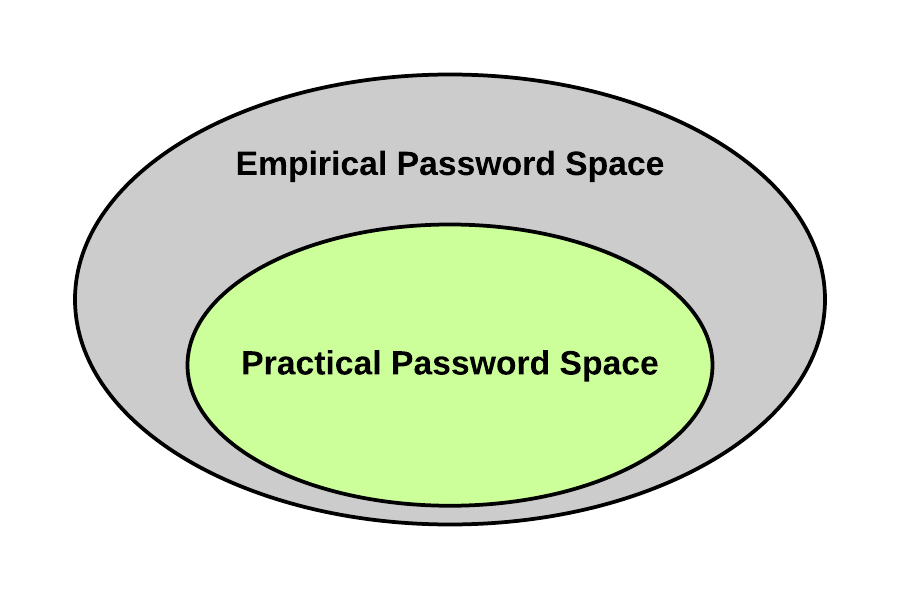
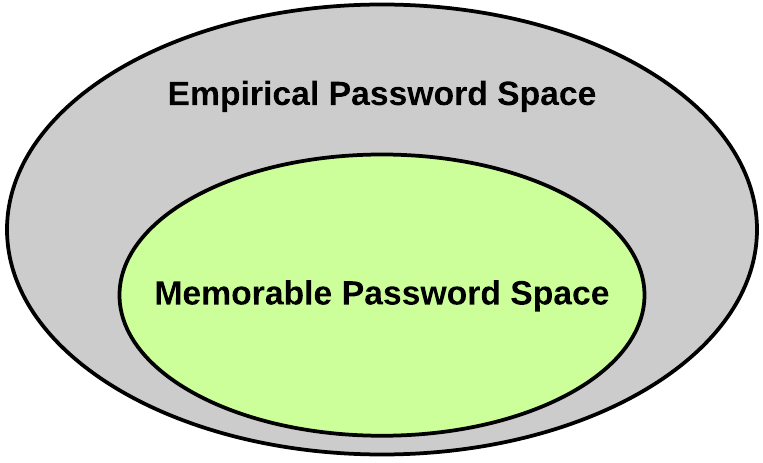
Changes

diff --git a/chapter3/graphicalPasswords.tex b/chapter3/graphicalPasswords.tex
@@ -1,8 +1,8 @@
 \section{Graphical Passwords}
 \label{chapter:literatureReview}
+  
 
-% Må få frem hvilke grafiske passord som er laget, samt se på hvilke problemer de løser/ikke løser
-% Kommentar fra Lillian: Hva søker man etter når man lager nye passordmekanismer? (entropi, vanskelig å gjette, lett å huske)
+\section*{Graphical Passwords} \label{sec:literaturegraphicalPasswords}
 
   Like text-based passwords schemes, graphical password schemes are also a knowledge-based authentication scheme, e.g. ``something you know'' that are described in the background theory. Since it all started around 1996, there have been many suggestions for graphical password schemes. When a new password scheme is proposed, there are several aspects of password that needs to be considered. A password scheme needs to be secure in terms of entropy, and it needs to be hard to guess and it also needs to be comfortable to use. This section will give a brief introduction to the history of research published on graphical passwords. This is important to know because each scheme is trying to improve different aspects of graphical password, giving us a detailed understanding of today's situation.
 
@@ -32,7 +32,7 @@
 
   ``Passfaces'' is a graphical password scheme developed by Real User Corporation that was founded in 2000 \cite{passface}. The authentication procedure allows the users to first select four images that are a visualization on human faces, and the user get authenticated by identifying their four faces. The scheme exploits the advantage that people are good at recognizing people, so when users choose the human faces, and they can recognize the characteristics of the faces.
 
-  Figure~\ref{fig:DejaVu} is showing the Deja Vu password scheme using the hash visualization technique for generating images. Figure~\ref{fig:PassFaces} is showing the PassFaces scheme used on a smartphone. This is one of the few commercial graphical password schemes that are in use.
+  Figure~\ref{fig:DejaVu} is showing the Deja Vu password scheme using the hash visualization technique for generating images. Figure~\ref{fig:Passfaces} is showing the PassFaces scheme used on a smartphone. This is one of the few commercial graphical password schemes that are in use.
 
   \begin{figure}[H]
     \centering
@@ -51,7 +51,7 @@
 
   In 2004, Davis et al. did a comparison of a light version of the ``PassFace'' and a new graphical password scheme called ``Story'' \cite{Davis}. The Story scheme is making the users choosing images making a story. The background for the scheme was to support their users of remembering their passwords by making a memorable story of images. The story that was made were needed to be recalled in the correct order. To support the memorability, users were instructed to construct a story mentally to connect the everyday images in the set.
 
-  In 2005 Wiedenbeck et al. proposed a graphical password scheme called ``PassPoints'' \cite{PassPoints} that is an  extension of the Blonder's \cite{Blonder} idea by eliminating the boundaries and allowing arbitrary images to be used. They evaluated their password scheme by testing the scheme for human users. The results showed that PassPoint were a promising scheme with respect to memorability because of the low error rate and low clicking rate.
+  In 2005 Wiedenbeck et al. proposed a graphical password scheme called ``PassPoints'' \cite{Wiedenbeck2} that is an  extension of the Blonder's \cite{Blonder} idea by eliminating the boundaries and allowing arbitrary images to be used. They evaluated their password scheme by testing the scheme for human users. The results showed that PassPoint were a promising scheme with respect to memorability because of the low error rate and low clicking rate.
   The aim of this study was to get an understanding of how different images affected user performance in authentication with a graphical password scheme. The preliminary result showed suggested that images may support memorability in graphical password schemes.
 
   Figure~\ref{fig:story} is the Story scheme with images of faces and objects. Figure~\ref{fig:passpoints} is an image of the PassPoints scheme showing five selected points in the picture.
@@ -63,7 +63,7 @@
       \includegraphics[scale=0.4]{pics/story.png}
       \label{fig:story}
     }
-    \subfigure[PassPoints \cite{PassPoints}]{
+    \subfigure[PassPoints \cite{Wiedenbeck2}]{
       \includegraphics[scale=0.6]{pics/passpoint.png}
       \label{fig:passpoints}
     }  
@@ -100,26 +100,29 @@
 
   Graphical passwords are still not widely adopted, but there are still new graphical password scheme being proposed. Recently published graphical password schemes are GeoPass \cite{GeoPass} and Picassopass \cite{PicassoPass}. Geopass uses a digital map for the authentication phase, where the user chooses a particular location as their password. Picassopass is a graphical password scheme that are presenting a password using a dynamic layered combination of graphical elements. The users can make a story that assists the user in the recognition of the graphical elements.
 
-  Figure~\ref{} and Figure~\ref{} is the two new proposals for graphical authentication schemes, the Geopass and the Picassopass, respectively. 
+  Figure~\ref{fig:geopass} and Figure~\ref{fig:PicassoPass} is the two new proposals for graphical authentication schemes, the Geopass and the Picassopass, respectively. 
 
   \begin{figure}[H]
     \centering
     \ContinuedFloat
     \subfigure[GeoPass \cite{GeoPass}]{
       \includegraphics[scale=0.60]{pics/geopass.png}
+      \label{fig:geopass}
     }
     \subfigure[PicassoPass \cite{PicassoPass}]{
       \includegraphics[scale=0.80]{pics/picassopass.png}
+      \label{fig:PicassoPass}
     }
     \caption{Graphical password schemes}
   \end{figure}
 
- \section{Evaluation of Graphical Password Schemes}
+  \clearpage
+ \section{Evaluation of Graphical Password Schemes} \label{sec:evaluation}
 
-  \begin{wrapfigure}{l}{0.35\textwidth}
+  \begin{wrapfigure}{l}{0.4\textwidth}
     \vspace{-20pt}
     \begin{center}
-      \includegraphics[scale=0.7]{pics/UsabilityVsSecurity.png}
+      \includegraphics[scale=0.75]{pics/UsabilityVsSecurity.png}
     \end{center}
     \vspace{-20pt}
     \caption{Usability vs. Security}
@@ -129,7 +132,7 @@
 
   Authentication with text-based passwords are a common approach, but it is well known that users often choose weaker passwords because of the limitations of recalling text-based passwords. Graphical passwords came as an alternative solution for overcoming the limitations of text-based passwords, and was inspired by researchers that showed that the graphical memory of humans is particularly well-suited to remember graphical information \cite{DeAngeli}. The problem with many graphical password schemes is that they often promise improved password memorability and thus usability, and at the same time improve the security \cite{Biddle}. The trade-off between usability and security is illustrated in Figure~\ref{fig:usabilitysecurity}. Because of the observed trade-off between usability and security, it is important to understand both the usability and security aspects when looking at different password schemes.
 
-\subsection{Usability and Memorability}
+\subsection{Usability and Memorability} \label{sec:usability}
 
   \todo{Finne forskning som evaluerer grafiske password på usability and memorability}
 
@@ -148,7 +151,7 @@
   \todo{Legge til forskning på usability av pass-go}
 
     
-\subsection{Security}
+\subsection{Security} \label{sec:security}
 
   In knowledge-based authentication, e.g. ``something you know'' we classify attacks into two general categories: guessing and capturing attacks. In a guessing attack the attackers are able to search through the entire password space, or either predict the users passwords patterns in order to avoid searching through the whole passwords space (often referred to as a dictionary attack). This is often associated with the entropy of the password, because the lower the entropy it will be easier to make a successful attack. When talking about capturing attacks, the attackers can directly obtain the passwords by observing the authentication process. One of the known capturing attacks on graphical passwords is shoulder surfing because of its graphical visualization.
 
@@ -167,7 +170,7 @@
   A clever attacker would narrow down the password space and prioritize guesses to pictures that people are likely to choose. The images that are selected are liable to be the images that users are likely to recall. In order to understand how an attacker might take advantage of human password choices, psychological studies on humans visual memory are crucial to comprehend.. 
 
 \clearpage
-\section{Psychology and Human Factors}
+\section{Psychology and Human Factors} \label{sec:humanfactors}
 
   \begin{wrapfigure}{r}{0.35\textwidth}
     \vspace{-20pt}
@@ -177,9 +180,10 @@
     \vspace{-20pt}
     \caption{Dual-Coding Theory}
     \vspace{-10pt}
+    \label{fig:dualcoding}
   \end{wrapfigure}
 
-  In many years, the field of psychology been an important in order to understand how humans interpret and remember different information. Psychology studies have recognized that the human brain have a superior memory for recognizing and recalling visual information rather than recognizing and recalling verbal or textual information \cite{DeAngeli}. One known theory is the ``dual-coding theory'' \cite{Biddle}, suggesting that verbal and non-verbal memory are processed and represented differently in human's mind. Text are verbal information that is represented symbolically, in contrast to non-verbal information like images that are mentally represented in a way that perceived concepts are assigned to a perceived meaning of what is directly observed. Both verbal and non-verbal information can be used when recalling information. For example, say a person have received stimulus of the concept ``cat'', both the image of a cat as well as the word ``cat''. When a person is asked to recall the concept ``cat'', a person can retrieve the image or the word individually, or both simultaneously. If the word ``cat'' is remembered, the picture of the cat is not lost and can still be retrieved at a later point in time. The ability to code a stimulus in two different ways can increase humans ability to remember, in contrast to only code the stimulus in one way. In the background theory there are described three various categories of graphical passwords according to the memory task involved in remembering and entering the password, e.g. recall, recognition and cued recall.
+  In many years, the field of psychology been an important in order to understand how humans interpret and remember different information. Psychology studies have recognized that the human brain have a superior memory for recognizing and recalling visual information rather than recognizing and recalling verbal or textual information \cite{DeAngeli}. One known theory is the ``dual-coding theory'' \cite{Biddle}, suggesting that verbal and non-verbal memory are processed and represented differently in human's mind. Text are verbal information that is represented symbolically, in contrast to non-verbal information like images that are mentally represented in a way that perceived concepts are assigned to a perceived meaning of what is directly observed. Both verbal and non-verbal information can be used when recalling information. For example, say a person have received stimulus of the concept ``cat'', both the image of a cat as well as the word ``cat'' (Figure~\ref{fig:dualcoding}). When a person is asked to recall the concept ``cat'', a person can retrieve the image or the word individually, or both simultaneously. If the word ``cat'' is remembered, the picture of the cat is not lost and can still be retrieved at a later point in time. The ability to code a stimulus in two different ways can increase humans ability to remember, in contrast to only code the stimulus in one way. In the background theory there are described three various categories of graphical passwords according to the memory task involved in remembering and entering the password, e.g. recall, recognition and cued recall.
 
   When it comes to humans and visual interpretation, studies support the idea that people recall symmetric images better than asymmetric images \cite{Attneave, French}. A particular interesting observation is that mirror symmetry carries a special status I the human memory \cite{Wagemans1}. An understanding of psychological studies on humans visual memory can help to build successful attacks against graphical passwords. If an attacker can successfully use the symmetric properties of graphical password schemes, then the security may be significantly less than if all passwords were equivalent probable.
 
@@ -195,7 +199,7 @@
   \todo{Legge til studier fra psykologi som kan forklare hvordan mennesker ser på sammensetningen av et bilde (cognitive studies)}
   
 
-  \section{Graphical Passwords and Mobile Devices}
+  \section{Graphical Passwords and Mobile Devices} \label{sec:mobiledevice}
   %Intro
   Users are not only dependent on remembering passwords across multiple web pages and systems, but do also need to remember passwords for our small mobile devices. The mobile phone have emerged as an excellent platform for graphical passwords because it is easier to input on touchscreen as a contrast to text-based passwords. Graphical passwords on mobile devices seem like a natural fit, as they often require direct manipulation of visual elements. In today's society, we are addicted to our mobile devices in our everyday life. Mobile devices are not just a communication tool for calling and texting, but also a valuable tool for daily tasks like doing our work, reading mail, pay our bills and keeping up with our social life. This trend makes our mobile devices vulnerable in terms of security. To avoid unwanted access, smartphones offer different locking mechanisms. The history of locking mechanisms was often a solution solely to prevent accidental use, while current mobile phones require protection in order to secure the potentially vast amount of private data that we keep on our smartphones. The situation of our rapid use of mobile phones, as well as it well-suited platform for graphical password, makes authentication on mobile devices an interesting field of study.
 

diff --git a/chapter1/introduction.tex b/chapter1/introduction.tex
@@ -1,14 +1,14 @@
 \chapter{Introduction}
 
-  In todays society, people tends to spend a lot of time on their mobile devices. Mobile devices are not just tool for communication, but also an important tool for every day tasks like doing our work, reading mail, pay our bills, and keeping up with our social life. Our whole life is contained in one device. When such a small device is so central in our every day life, it makes it vulnerable.
+  In today's society, people tend to spend much time on their mobile devices. Mobile devices are not just tool for communication, but also an essential tool for everyday tasks like doing our work, reading mail, pay our bills, and keeping up with our social life. Our whole life is contained in one device. When such a small device is so central to our daily lives, it makes it vulnerable.
 
-  Passwords are human-chosen secrets that are connected to you as a person. When the password are created you might create a password that is a association to something you know or recognize; passwords are more than just words and numbers. Because of the shortcomings with text-based passwords \cite{UnixPasswords}, there is an increased interest in graphical passwords. The interest in graphical passwords started by the assumption that pictures are easier to remember and more secure than words and numbers \cite{DeAngeli}. Google's Android platform released the functionality for the Android Unlock Pattern in 2008. Since its release, there have been a lot of discussion of its security, but few researchers have conducted scientific research on the Android Unlock Pattern. The problem is not just the theoretical password space, but the password space in practice. 
+  Passwords are human-chosen secrets that are connected to you as a person. When the password are created you might create a password that is an association to something you know or recognize; passwords are more than just words and numbers. Because of the shortcomings with text-based passwords \cite{UnixPasswords}, there is an increased interest in graphical passwords. The interest in graphical passwords started by the assumption that pictures are easier to remember and more secure than words and numbers \cite{DeAngeli}. Google's Android platform released the functionality for the Android Unlock Pattern in 2008. Since its release, there have been much discussion of its security, but few researchers have conducted scientific research on the Android Unlock Pattern. The problem is not just the theoretical password space, but the password space in practice.
 
-  The motivation for this thesis started by observing the shortcomings with graphical passwords. Password reuse is one of the known password habits among users because the human limitation to remembering text-based password. Some users also make simple or meaningful password that are easier to remember, making their passwords vulnerable to attacks. Graphical passwords looks like a promising alternative to text-based passwords, as it supports users to remember and make more complex passwords, offering better usability and higher security. As mobile devices plays an important role in our everyday life, it makes it interesting target device. Security on mobile devices have changed during the past years. The history of locking mechanisms was often a solution solely to prevent accidental use, while current mobile phones require protection in order to secure the potentially vast amount of private data that we keep on our smartphones. The situation of our rapidly use of mobile phones, as well as it well suited platform for graphical password, makes authentication on mobile devices an interesting field of study.
+  The motivation for this thesis started by observing the shortcomings with graphical passwords. Password reuse is one of the known password habits among users because the human limitation to remembering text-based password. Some users also make simple or meaningful password that are easier to remember, making their passwords vulnerable to attacks. Graphical passwords look like a promising alternative to text-based passwords, as it supports users to remember and make more complex passwords, offering better usability and higher security. As mobile devices play a significant role in our everyday life, it makes it interesting target device. Security on mobile devices has changed during the past years. The history of locking mechanisms was often a solution solely to prevent accidental use, while current mobile phones require protection in order to secure the potentially vast amount of private data that we keep on our smartphones. The situation of our rapid use of mobile phones, as well as it well-suited platform for graphical password, makes authentication on mobile devices an interesting field of study.
 
-  In 2013 a research group conducted the first large-scale user study on the Android Unlock Patterns \cite{Uellenbeck}. The outcome of the research was a analysis of 2900 collected Android Unlock Patterns. They found a lot of bias in the pattern making process claiming that the scheme are less secure than its stated theoretical password space. 
+  In 2013, a research group conducted the first large-scale user study on the Android Unlock Patterns \cite{Uellenbeck}. The outcome of the research was an analysis of 2900 collected Android Unlock Patterns. They found bias in the pattern making process claiming that the scheme are less secure than its stated theoretical password space.
 
-  This research aims to take the analysis of peoples choice in Android Unlock Patterns a step further by including the human properties that may impact the users choice in graphical passwords. This thesis is the first phase of my research, and will continued in my master thesis in the following spring. 
+  This research aims to take the analysis of people's choice in Android Unlock Patterns a step further by including the human properties that may impact the user's choice in graphical passwords. This thesis is the first phase of my research and will continue in my master thesis in the following spring.
 
   \section{Research Questions}
     
@@ -22,14 +22,15 @@
 
   \section{Deliverables}
 
-    The deliverables from this thesis is a literature review on graphical passwords to get an overview of published research, and provide a conceptual framework for the rest of the thesis. A literature review is providing the information needed to decide on a main research hypothesis for my master thesis, and the aim is to fill the gap in research on graphical passwords on mobile devices.
+    The deliverables from this thesis are a literature review on graphical passwords to get an overview of published research, and provide a conceptual framework for the rest of the thesis. A literature review is providing the information needed to decide on the main research hypothesis for my master thesis, and the aim is to fill the gap in research on graphical passwords on mobile devices.
 
-    As well as a literature review, there will be delivered a research design that will be used further in my master thesis. The research design is mainly a detailed description of the research strategy and data collection method. Research on passwords is not easy to conduct because of the nature of passwords. Passwords should remain a secret for the user, and as we have learned, we should not share our password due to security concerns. Research on text-based passwords is often based on leaked password on the web. When analyzing graphical passwords on mobile devices, there is no such data source available. 
-    The research design from this research can provide insight into a new way of solving the problem of collecting user chosen passwords from mobile devices. This can provide knowledge for future research on graphical passwords on mobile devices.
+  As well as a literature review, there will be delivered a research design that will be used further in my master thesis. The research design is mainly a detailed description of the research strategy and data collection method. Research on passwords is not easy to conduct because of the nature of passwords. Passwords should remain a secret for the user, and as we have learned, we should not share our password due to security concerns. Research on text-based passwords is often based on leaked password on the web. When analyzing graphical passwords on mobile devices, there is no such data source available.
+  
+  The research design can provide insight into a new way of solving the problem of collecting user chosen passwords from mobile devices. This can provide knowledge for future research on graphical passwords on mobile devices.
 
-  \section{Methods}
+  \section{Methods} \label{sec:method}
 
-    \subsection{Research Process}
+    \subsection{Research Process} \label{sec:methodresearchprocess}
 
     Throughout this thesis, the research process illustrated in figure~\ref{fig:researchProcess1} will be used as a starting point \cite{empiriske}. The research process is framework for researching information systems and computing. The model is not justed as a framework for this research project, but will be used as a model when designing the research that will be conducted in the following spring. The only part that is conducted in this thesis is the literature review for finding the research questions (hypothesis) to be used in my master thesis. The research strategy and data generation is described in section~\ref{chapter:researchDesign}.
 
@@ -44,9 +45,9 @@
 
     \todo{Beskrive alle delene research process i detalj}
 
-    \subsection{Literature Review}
+    \subsection{Literature Review}\label{sec:methodliteraturereview}
 
-    \subsection{Usability Testing}
+    \subsection{Usability Testing} \label{sec:methodusabilitytesting}
 
   \section{Thesis structure}
 

diff --git a/chapter2/backgroundTheory.tex b/chapter2/backgroundTheory.tex
@@ -1,10 +1,10 @@
   \chapter{An Introduction to Authentication Mechanisms}
   
-  {\bf *** Write introduction to chapter ***}
+    This chapter is an introduction to authentication mechanisms. Section~\ref{sec:authentication} is an introduction to the categorizaton of existing authentication mechanismns. Section~\ref{sec:entropy} provides an introduction to key aspects in security and authentication. Section~\ref{sec:shortcomings} is an evaluation of text-based authentication and its shortcomings.
 
   \clearpage
 
-  \section{Authentication}
+  \section{Authentication} \label{sec:authentication}
 
   Authentication is the process of verifying whether a particular individual or a device should be granted access to a system or application running on a device \cite{IPAS}, e.g. verifying that you are the person that you claim to be.
 
@@ -57,7 +57,7 @@
 
       Cued-recall are often referred to locimetric systems \cite{DeAngeli}. With cued-recall authentication typically require the users to remember and target a specific location within and image. This is a version of a recall-based authentication, but helps the user with the recall by showing an image and not just an grid or canvas. It is also different from the recognition-based approach because the user need to identify specific locations in an image as a whole. 
 
-  \section{Key Security Aspects in Authentication}
+  \section{Key Security Aspects in Authentication} \label{sec:entropy}
   In order to be able to evaluate the security of different password schemes, this section will give a brief introduction to key security aspects with knowledge-based authentication, hereafter called passwords. In terms of security, the primary goal of authentication is to provide security for its intended environment in order to avoid security attacks. A password, regardless of format, is a secret a user needs to use in order to to grant access to a system or device. A password should have certain features in order to be secure:
 
     \begin{itemize}
@@ -79,22 +79,20 @@
 
   All of the key security aspects are important to understand when you are studying password mechanisms. The key aspects will be used throughout this thesis in order to be able to evaluate and read research focusing passwords. 
 
-  \section{Shortcomings With Text-Based Authentication} 
+  \section{Shortcomings With Text-Based Authentication} \label{sec:shortcomings}
+
   User authentication is a central component of security systems. In order to get access to systems you need to pass a authentication process. Despite the large number of options for authentication, text-based passwords remain the most common authentication scheme. The reason why they are widely adopted is because they are easy and inexpensive to implement, and users are familiar with the scheme. It is also avoiding the privacy issues raised by biometric authentication and avoid the need for bringing a physical security device that are used in token-based authentication schemes. However, text-based authentication suffer from both security and usability disadvantages. Today, users needs to remember an increasingly number of password, making users to adopt bad password habits. 
 
   The term ``habit'' is often a bad thing when talking about security. A habit is often hard to change and are often a predictable pattern. Password reuse is one of the known password habits among users because the human limitation to remembering text-based password. Some users also make simple or meaningful password that are easier to remember, making their passwords vulnerable to attacks. It is a well known problem that users tends to have an increasingly number of accounts that requires the users to remember yet another number of password across multiple systems and devices. The problem is not just to remember all the password needed, but also remembering which passwords that belongs to which account or device. Because of the human capacity of remembering password are causing users to choose weak passwords, as well as reuse the passwords across multiple web pages. In order to understand the shortcomings with text-based passwords, this section will include relevant research on users choices on text-based passwords.  
 
-    \begin{wrapfigure}{l}{0.4\textwidth}
-      \vspace{-20pt}
-      \begin{center}
-        \includegraphics[scale=0.16]{pics/EmpiricalVsPractical.png}
-      \end{center}
-      \vspace{-20pt}
-      \caption{Empirical vs. Memorable Password Space}
-      \vspace{0pt}
-    \end{wrapfigure}
+  Password schemes have what is called an empirical password space, that is the number of possible passwords that a user can make. The problem with many password schemes is that it seems that users don't tend to use the full password space, but only a subset of the possible passwords, e.g. the memorable password space, making the memorable password space less than the empirical password space (Figure~\ref{fig:memorable}). This shows that the security of a password scheme is linked closely to is memorable password space rather than its full password space.
 
-  Password schemes have what is called an empirical password space, that is the number of possible passwords that a user can make. The problem with many password schemes is that it seems that users don't tend to use the full password space, but only a subset of the possible passwords, e.g. the memorable password space, making the memorable password space less than the empirical password space. This shows that the security of a password scheme is linked closely to is memorable password space rather than its full password space.
+  \begin{figure}[H]
+      \centering
+      \includegraphics[scale=0.25]{pics/EmpiricalVsPractical.png}
+      \caption{Empirical vs. Memorable Password Space}
+      \label{fig:memorable}
+    \end{figure}
 
   In a case study of 14.000 Unix passwords, a research group found a 25\% of the passwords were in a group of words forming a dictionary of $3\times10^{6}$ words \cite{UnixPasswords}. This dictionary shows that an attacker can have a relatively high success rate with an attack, despite the fact that there a roughly $2\times10^{14}$ 8-character passwords consisting of digits, and upper case and lower case letters. Due to the limitations of human memory, users often choose passwords which are easier to remember, causing a significant number of user-chosen password to fall into a small dictionary, e.g. practical password space \cite{Tao}. A well-designed dictionary is a tiny subset of the full password space, e.g. theoretical password space, which further can be prioritized  according to the likelihood for a password to be chosen. It is therefore a commonly stated that the security of a password scheme is related closely to the size of its memorable/practical password space, rather than its theoretical password space. The high success rate of dictionary attack against textual passwords is believed to be strongly related to the recall capabilities of humans and how they choose their passwords, e.g. making meaningful and thus more easily remembered words are chosen as passwords. 
 

diff --git a/chapter3/discussion.tex b/chapter3/discussion.tex
@@ -1,10 +1,69 @@
 \section{Discussion and Results}\label{sec:resultsLiteratureStudy}
+    
+  In the literature review, I have reviewed published research that this project find relevant when looking at graphical passwords. The literature review started with review of graphical password from an historical point of view. This provides an overview of the purposed schemes with the aim of understanding the reason why they were proposed. Each scheme is attempting to either improve drawbacks with earlier published schemes, while some schemes just try to create something new. 
 
-	\todo{Oppsummere hva jeg har funnet og konkludere med hva som kan forskes videre på (definere forskningsspørsmål for neste semester)}
-	\todo{Lage en tabell som oppsummerer forskningen}
+  When going through the history of the published schemes, it was discovered a trade-off between usability and security. Some graphical password schemes solely looks at a new way of designing a password scheme by looking at the usability, the security, and sometimes both. 
+
+  When looking at at text-based passwords and PINs, it is often observed that the passwords are more then just numerical values and letters. I believe that we can look at graphical passwords in the same way; graphical passwords are more then just images and graphical elements. This is the reason why I added the section about psychology and human factors in Section~\ref{sec:humanfactors} in order to understand users choice in graphical passwords. When looking back at Section~\ref{sec:usability}, user selects passwords that they are able to recall by associate the selected password with something they know or are. 
+
+  What is not yet answered in the domain of graphical passwords? Of the published research that included the keyword ``human factors'', only a few of them actually looked at users choice in graphical passwords based on who they are. Most of them only looked at user's choice of passwords in general.
+
+  Smartphones are in rapid use, and is a part of many users everyday life performing their daily tasks. The smartphone is also an interesting platform for graphical password because it of the touch sensitive screen. When conducting research I wanted to look further into a graphical password scheme that actually is in use. The Android Unlock pattern is a well known graphical password scheme used on smartphone. As this research is familiar with, there is only published one paper looking at the schemes security \cite{Uellenbeck}. As stated, I believe that graphical passwords are more than just images and graphical elements. The research that inspired me only looked at what patterns users in general selected. Are we able to add a new dimension to an analysis of users choice in graphical password based on who they are? 
+
+  The issues that needs to be faced when looking at ALP (data collection, no data source available).
+
+  When collecting relevant published research, it was used different combinations of keywords at a selection of publication sites. The procedure for the literature is described in Section~\ref{sec:methodliteraturereview}.
+  The majority of the references are published in accepted forums for research. 
+
+  I started reading a summery paper that summarized the twelve first years of graphical passwords \cite{Biddle}. This gave me an historical overview of graphical passwords, as well as providing a long list of relevant research in its bibliographical list. I used this list to find the source of the different graphical passwords schemes, as well as making a list of relevant keywords to use in searching after other relevant research. The list of keywords is found in Table~\ref{tab:keywords}.
+
+    \begin{table}
+      \centering
+      \begin{tabular}{| p{4cm} | p{4cm} | p{4cm} | }
+        \hline
+        Security & Usability & Authentication   \\ \hline
+        Graphical Passwords & Human Factors & Mobile Security  \\ \hline
+        Dictionary Attack & Psychology & Human Behavior \\ \hline
+        Memorability & Pattern & Design \\ \hline
+      \end{tabular}
+      \caption{Keywords used in search}
+      \label{tab:keywords}
+    \end{table}
+
+  By combing these keywords with logical operators like ``AND'' and ``OR'', I retried a long list of relevant research. For keeping track of the foundings, I used a program called ``PaperPile''. Whenever I found a relevant paper, I added this to PaperPile and tagged it with the keywords stated in the papers. In total, i retrieved a list of 123 relevant papers, whereof 72 was qualified according to different quality attributes that. Out of the 72 papers, 29 papers are included in this literature review.
+
+  In order to get an overview of the references used in the literature, Table~\ref{tab:frequencyKeywords} summarized the number of keywords in different papers used. 
+
+  \begin{table}
+      \centering
+      \begin{tabular}{| p{1.5cm} | p{1.5cm} | p{1.5cm} | p{1.5cm} | p{1.5 cm} | p{1.5cm} |}
+        \hline
+        {\bf Security} & 11 & & & & \\ \hline
+        {\bf Usability} & 4 & 8 & & & \\ \hline
+        {\bf Human factors} & 5 & 2 & 7 & & \\ \hline
+        {\bf Graphical Passwords} & 10 & 8 & 7 & 22 & \\ \hline
+        {\bf Mobile} & 3 & 1 & 2 & 5 & 5 \\ \hline
+         & {\bf Security} & {\bf Usability} & {\bf Human factors} & {\bf Graphical Passwords} & {\bf Mobile} \\ \hline
+      \end{tabular}
+      \caption{Keywords used in search}
+      \label{tab:frequencyKeywords}
+    \end{table}
 
 
-	% Utfordringen med passord
+
+  \todo{Sjekke tallet på antall papers som er blitt inkludert i literature review}
+
+
+
+
+
+
+
+
+    \todo{Lage en tabell som oppsummerer forskningen}
+
+
+    % Utfordringen med passord
   % Hvorfor er ikke passordtypene vi har gode nok?
 
   % Hva betyr det at et passord er knekkbart?

diff --git a/chapter4/strategy.tex b/chapter4/strategy.tex
@@ -158,6 +158,8 @@
 
     The greater the accuracy required in my claim that my sample size represent the whole population adequately; the larger your sample size needs to be. Statisticians have produced tables that correlate population size against the sample size required for the required level of confidence and accuracy. Researchers generally work with a confidence level at 95\% and an accuracy range of +/- 3 \%. In Table~\ref{tab:sampleSize} there is a recommended sample size for a survey (using 95\% confidence interval and +/- 3\% accuracy range) estimated by the targeted population size \cite{empiriske}.  
 
+    As we can see in Table~\ref{tab:sampleSize}, the sample size does not increase at the same rate as the target population. When looking at all people that owns a mobile phone worldwide, we can argue that the targeted population size is greater than 1,000,000, and we therefore need a sample size of at least 1000. It would be desirable to get a sample size bigger than 1000, but due to the time frame of this research, a sample size of 1000 would be good enough to get statistically significant results.
+
       \begin{table}[H]
         \begin{tabular}{| p{5cm} | p{5cm} |}
           \hline
@@ -172,8 +174,6 @@
         \label{tab:sampleSize}
       \end{table}
 
-    As we can see in Table~\ref{tab:sampleSize}, the sample size does not increase at the same rate as the target population. When looking at all people that owns a mobile phone worldwide, we can argue that the targeted population size is greater than 1,000,000, and we therefore need a sample size of at least 1000. It would be desirable to get a sample size bigger than 1000, but due to the time frame of this research, a sample size of 1000 would be good enough to get statistically significant results.
-
     Since the sampling size is quite hight, and the survey is going to be distributed with a self-selection sampling strategy over the Internet, it is still important to provide some level of control of the respondents. The lack of control of the respondents, there is likely to be some data properties that have a higher representation that others. Therefore, it is important to control the data collected during the spring. If it occurs that a subpopulation is overrepresented, it is desired to use the strategy for smoothing the data from Subsection. The data collected should never be manipulated. In a situation where there is lack of respondents from a subgroup, the only thing that I can do is to contact networks where there is a higher probability to reach the subgroup that is underrepresented in the sample. Of course, when using such a strategy, it might introduce some bias because I then influence the sample. Such an approach should only be used when there is lacking a number of respondents from a subgroup for getting statistically significant results. If using such a strategy, it should be highlighted in the results how I did it, as well as discuss how it might have impacted the results. 
 
     In the next section, we will look at some strategies for responses from different subgroups that may be underrepresented when using non-probability sampling with a self-selection technique. 
@@ -182,7 +182,7 @@
 
     When sending out the questionnaire I have no control over how many people are willing to respond to the questionnaire, or how many people from different subgroups I am able to reach. When talking about subgroups, it means that it is people with different human properties. To be able to achieve the amount of data needed for an analysis, I need to look for a strategy that may increase the number of responses from the different subgroups. If I suspect that certain types of people in my sample frame are less willing to respond or harder to reach, I could deliberately include more of that subgroup in my sample so I can assure that I receive the number of respondents that I need. Maybe go face-to-face if a particular group of people may be less willing to participate. 
 
-    In this list, there will be made a strategy for collecting data from the different subgroups. {\it First}, some subgroups might be less willing to respond to the questionnaire. {\bf Second}, some of the subgroups might be harder to reach because they are outside of my network. 
+    In this list, there will be made a strategy for collecting data from the different subgroups. {\it First}, some subgroups might be less willing to respond to the questionnaire. {\it Second}, some of the subgroups might be harder to reach because they are outside of my network. 
 
     {\bf People with age of 50 or higher:} People with the age over 50 may not own a smartphone, or may be hard to reach for other reasons. I need to find networks were there is a high representation of people with an age of 50 or higher. In Norway there is a network called ``Seniorweb''. There is also a magazine called ``vi over 60'' that is a network that is highly represented with people with an age over 60. Both networks are possible to contact if there is a lack of respondents from this subgroup. 
 

diff --git a/chapter4/dataCollection.tex b/chapter4/dataCollection.tex
@@ -31,7 +31,7 @@
     \clearpage
     \subsection*{Information about the respondents} 
 
-    When the respondents created three various patterns, the respondents are asked different questions about their human properties, as well as some information about their smartphones. 
+    When the respondents created three various patterns, the respondents are asked different questions about their human properties, as well as some information about their smartphones (Figure~\ref{tab:questions}). 
 
     The ordering of the questions is arranged according to the importance of the questions. This ordering is added in case if some respondents choose to terminate the questionnaire before completion of the questionnaire. The questions are selected from the review of human properties (Section~\ref{sec:datarequirements}), as well as some questions that includes information about the smartphone used for answering the questionnaire. Further discussion of each question will be included in Section~\ref{sec:wireframes}.
 
@@ -137,9 +137,9 @@
 
     It is a concern that respondents could make patterns that are done quickly without any thoughts. When asking a person to make a ``complex pattern'', people tend to overcompensate and choose rather complicated passwords. This behavior is well known in psychology as ``priming''. By overcompensating and choosing more complex patterns than probably would appear ``in the wild'', would introduce bias in the data because the overcompensated password is not representative. By asking people to make three different patterns, we get an overview of the complexity without directly asking the users to make a password that is hard to guess.
 
-    One concern with asking the users to create the patterns in a predefined order is that it might introduce bias in the data. When a respondent is making the patterns the order might affect how they make the patterns. For example, when a respondent creates a pattern for a shopping account, they may start out with an easy pattern because they might categorize it as a a lower security risk, for example, the banking account. To be sure that the ordering is not introducing bias, we can use a method called a ``Latin Square''. A Latin square is a table filled with n different symbols in such a way that each symbol occurs exactly once in each row and exactly once in each column.
+    One concern with asking the users to create the patterns in a predefined order is that it might introduce bias in the data. When a respondent is making the patterns the order might affect how they make the patterns. For example, when a respondent creates a pattern for a shopping account, they may start out with an easy pattern because they might categorize it as a a lower security risk, for example, the banking account. To be sure that the ordering is not introducing bias, we can use a method called a ``Latin Square'' (Figure~\ref{tab:latin}). A Latin square is a table filled with n different symbols in such a way that each symbol occurs exactly once in each row and exactly once in each column.
 
-    We use a Latin Square for ensuring that the ordering do not impact the respondent's choice of patterns. In practice, different respondents will be answering the same questions, but in a different order. The answers with a different ordering will be compared to see if the ordering had any impact on the results. 
+    We use a Latin Square for ensuring that the ordering do not impact the respondent's choice of patterns . In practice, different respondents will be answering the same questions, but in a different order. The answers with a different ordering will be compared to see if the ordering had any impact on the results. 
 
     \begin{table}[H]
       \centering
@@ -150,6 +150,7 @@
         P3 & P1 & P2 \\ \hline
       \end{tabular}
       \caption{Latin Square}
+      \label{tab:latin}
     \end{table}
 
     \subsubsection*{Information about the respondents and the device used}

diff --git a/chapter3/chapter3.tex b/chapter3/chapter3.tex
@@ -1,9 +1,8 @@
 \chapter{Literature Review}
 
-	{\bf \color{red} Write introduction}
+  This chapter is a semi-structured literature review conducted to answer the research question: ``What is the status of current research on graphical passwords?''. 
 
-  
-  
+  Section~\ref{sec:literaturegraphicalPasswords} start with a historical view on graphical passwords looking into different proposed schemes during the past years until today. Section~\ref{sec:evaluation} are looking at research evaluating different graphical password schemes from usability and security point of view. Section~\ref{sec:humanfactors} reviews graphical passwords from a psychology point of view and add research that focuses on human factors. Section~\ref{sec:mobiledevice} are looking into graphical passwords and mobile devices. 
 
-  
+  The results will be discussed in Section~\ref{sec:resultsLiteratureStudy}. The aim of this literature review is to get an overview of graphical passwords and find a gap in the literature that further can be looked into. 
 
